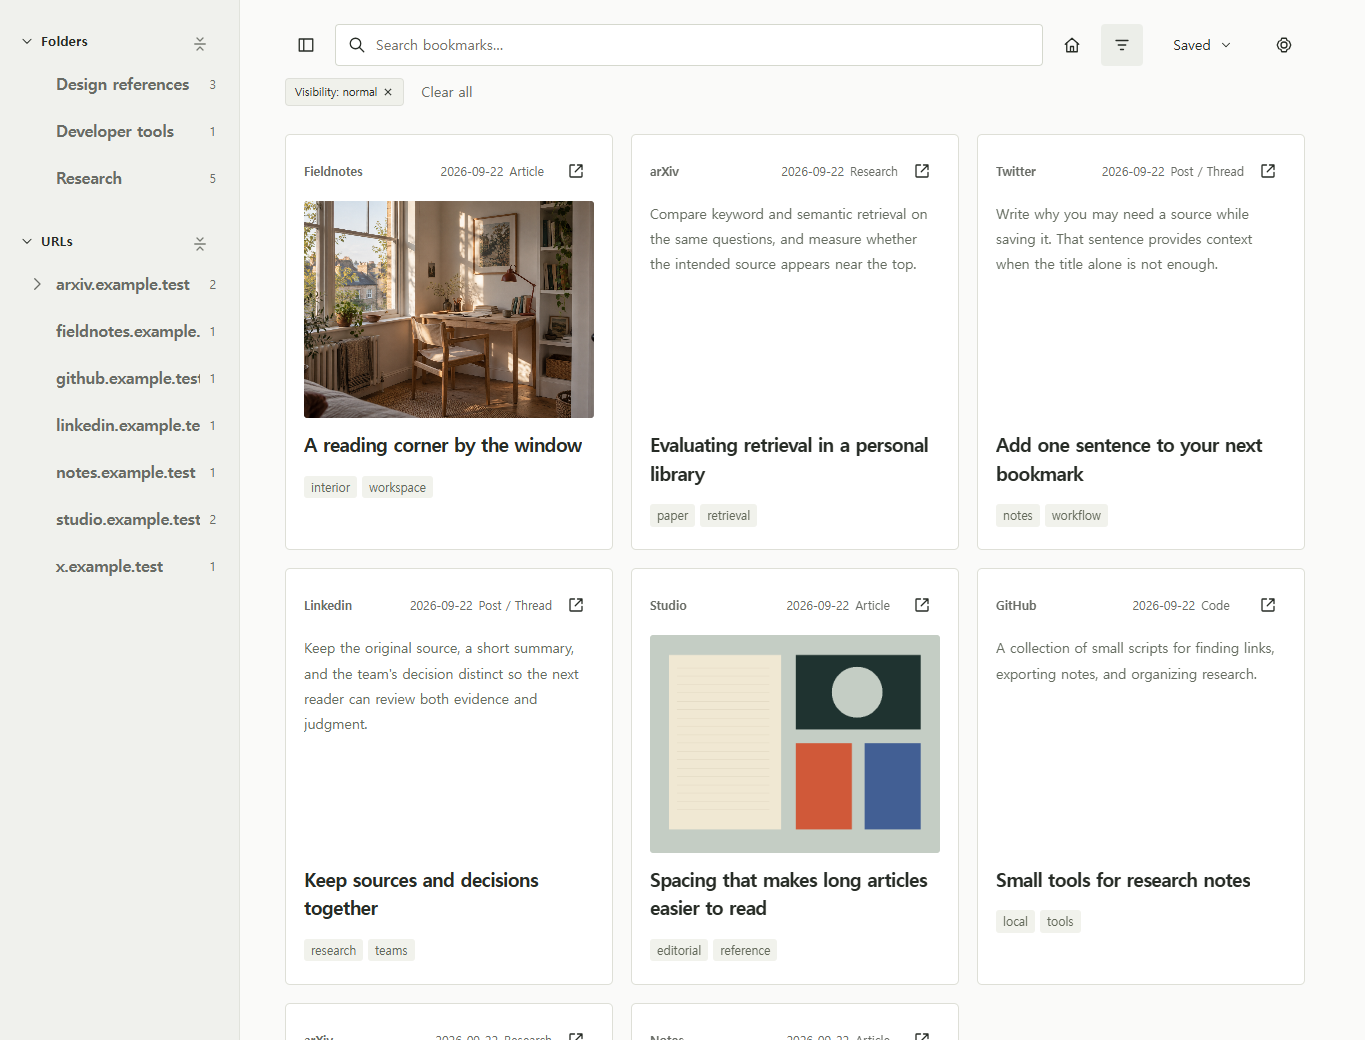
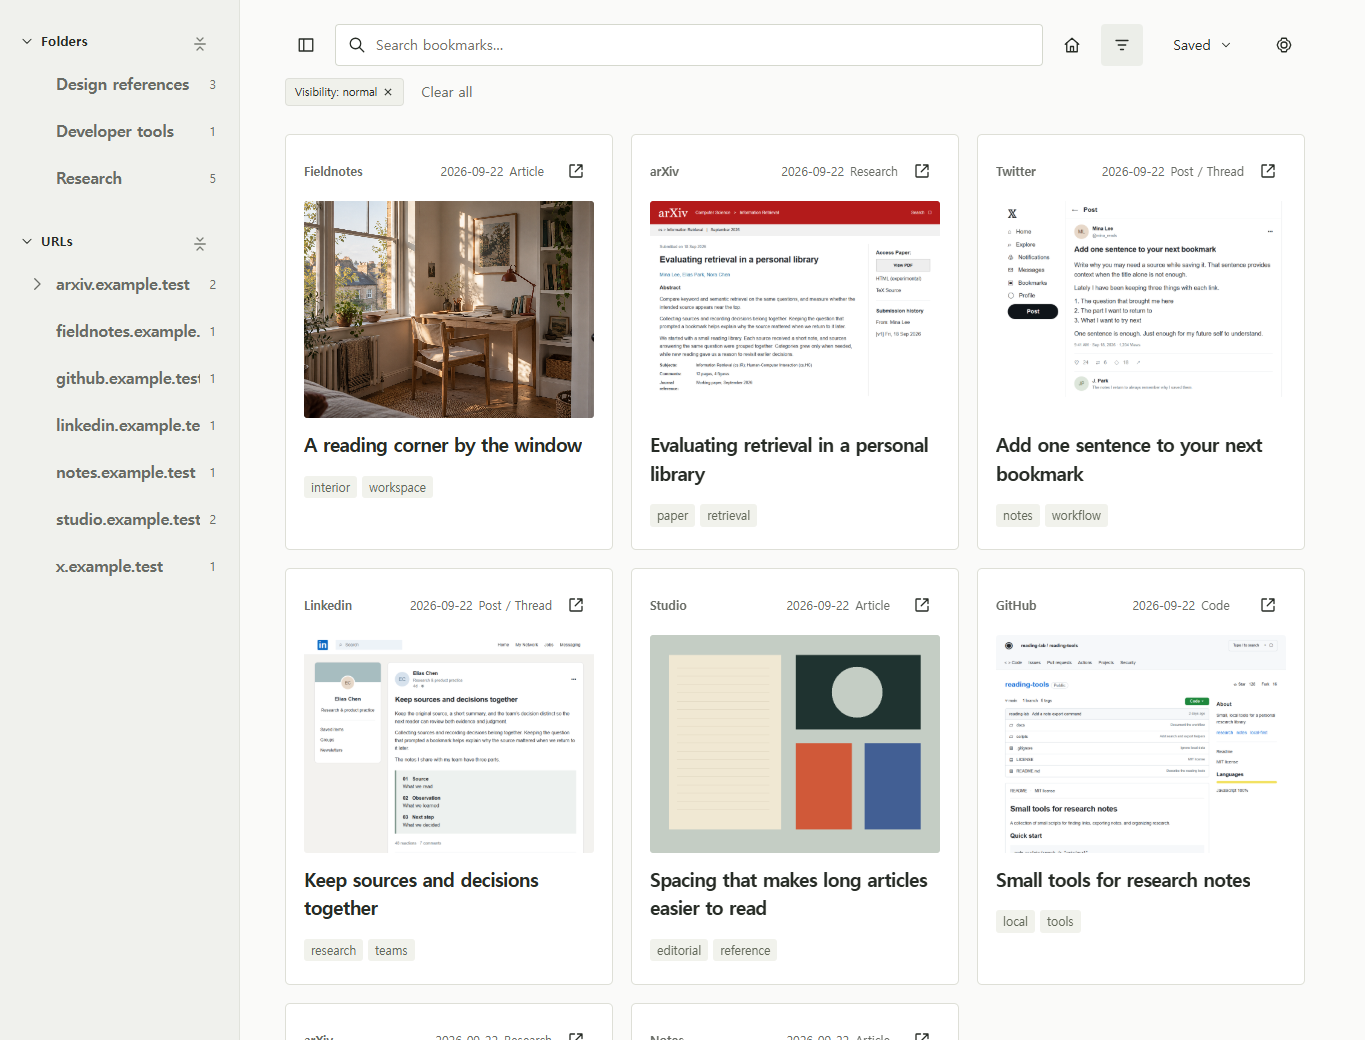
Update public template: snapshot-covers-20260922

diff --git a/docs/PROJECT.md b/docs/PROJECT.md
@@ -10,7 +10,7 @@ Web Bookmark Hub is a local, private index of web pointers shared by a person an
 - `extension/`, `profiles.js`, `content-script.js`, `popup.*` and `service-worker.js` own explicit current-page and selected-image capture. Site templates discover candidates; they do not author privacy or storage policy.
 - `enrichment/` owns bounded link extraction and the Codex summary prompt. Local agent CRUD is a convenience path; it is not host isolation. See `docs/project/ENRICHMENT.md`.
 - `examples/` and `scripts/seed-demo.js` own invented sample records and generated covers. Sample URLs use reserved test domains, and sample summaries are fixtures. No owner collection is included.
-- `docs/images/{reading,summary,library}-{ko,en}.png` and `docs/images/extension-{connect,save,saved}.png` show the unchanged production app and native extension with isolated dummy data. The extension pairing and URL save are real; summaries and folder/tag assignments are authored fixtures, and the blog's cover is generated artwork. No live model call or named-platform compatibility test is represented. This does not authorize publishing user collections or runtime captures.
+- `docs/images/{reading,summary,library}-{ko,en}.png` and `docs/images/extension-{connect,save,saved}.png` show the unchanged production app and native extension with isolated dummy data. The extension pairing and URL save are real; summaries and folder/tag assignments are authored fixtures, and the blog's cover is generated artwork. Cards use representative images or browser screenshots of invented source pages, stored through the real Registry as page-snapshot covers; the summaries remain stored alongside them. No live model call or named-platform compatibility test is represented. This does not authorize publishing user collections or runtime captures.
 
 ## Invariants
 
